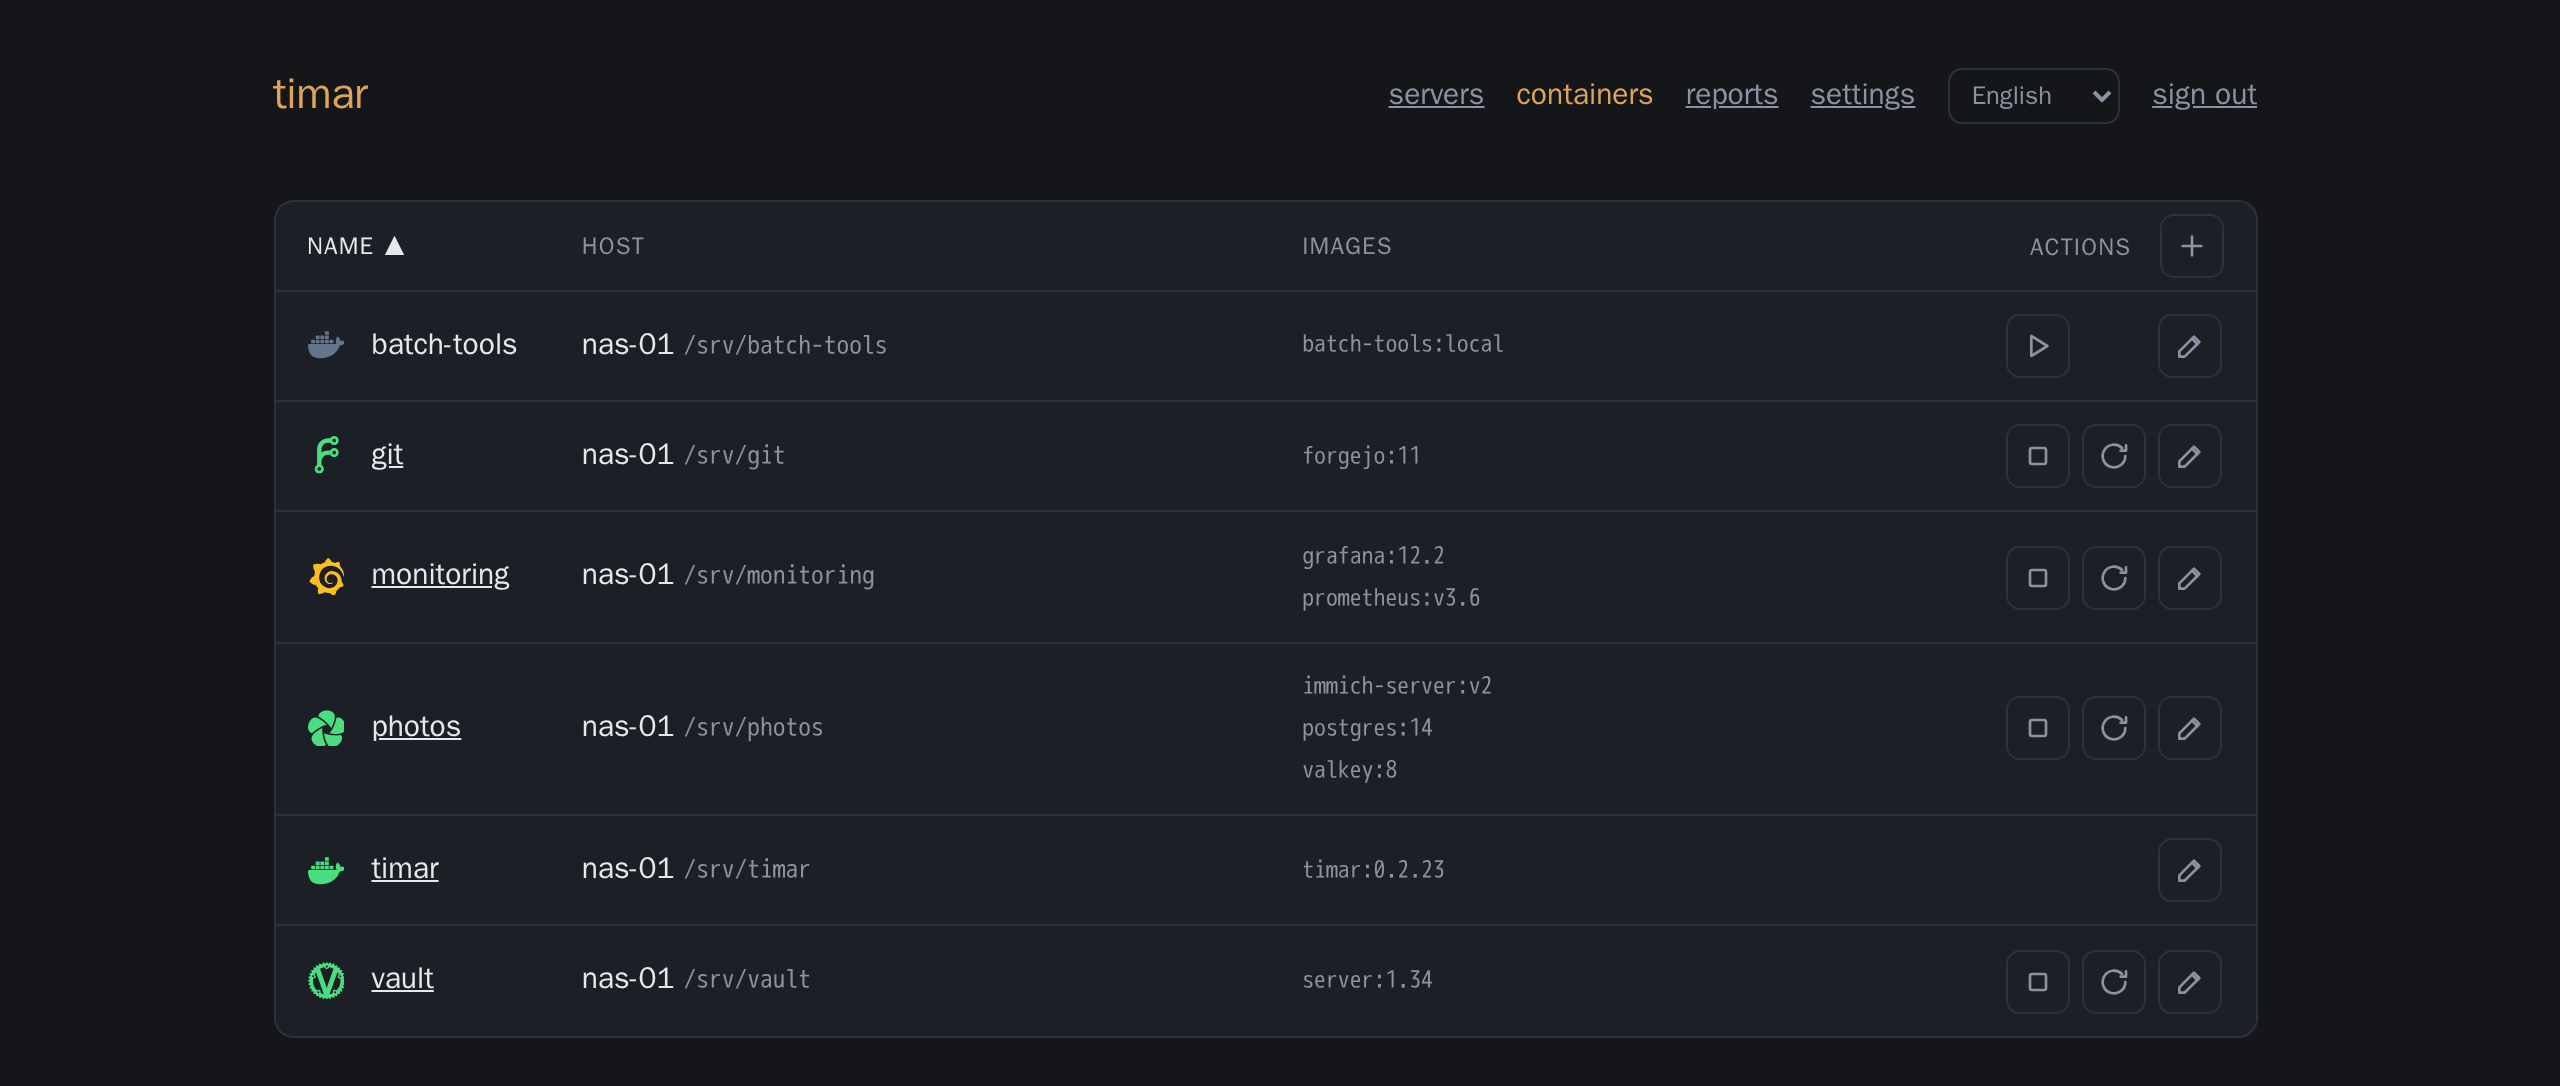
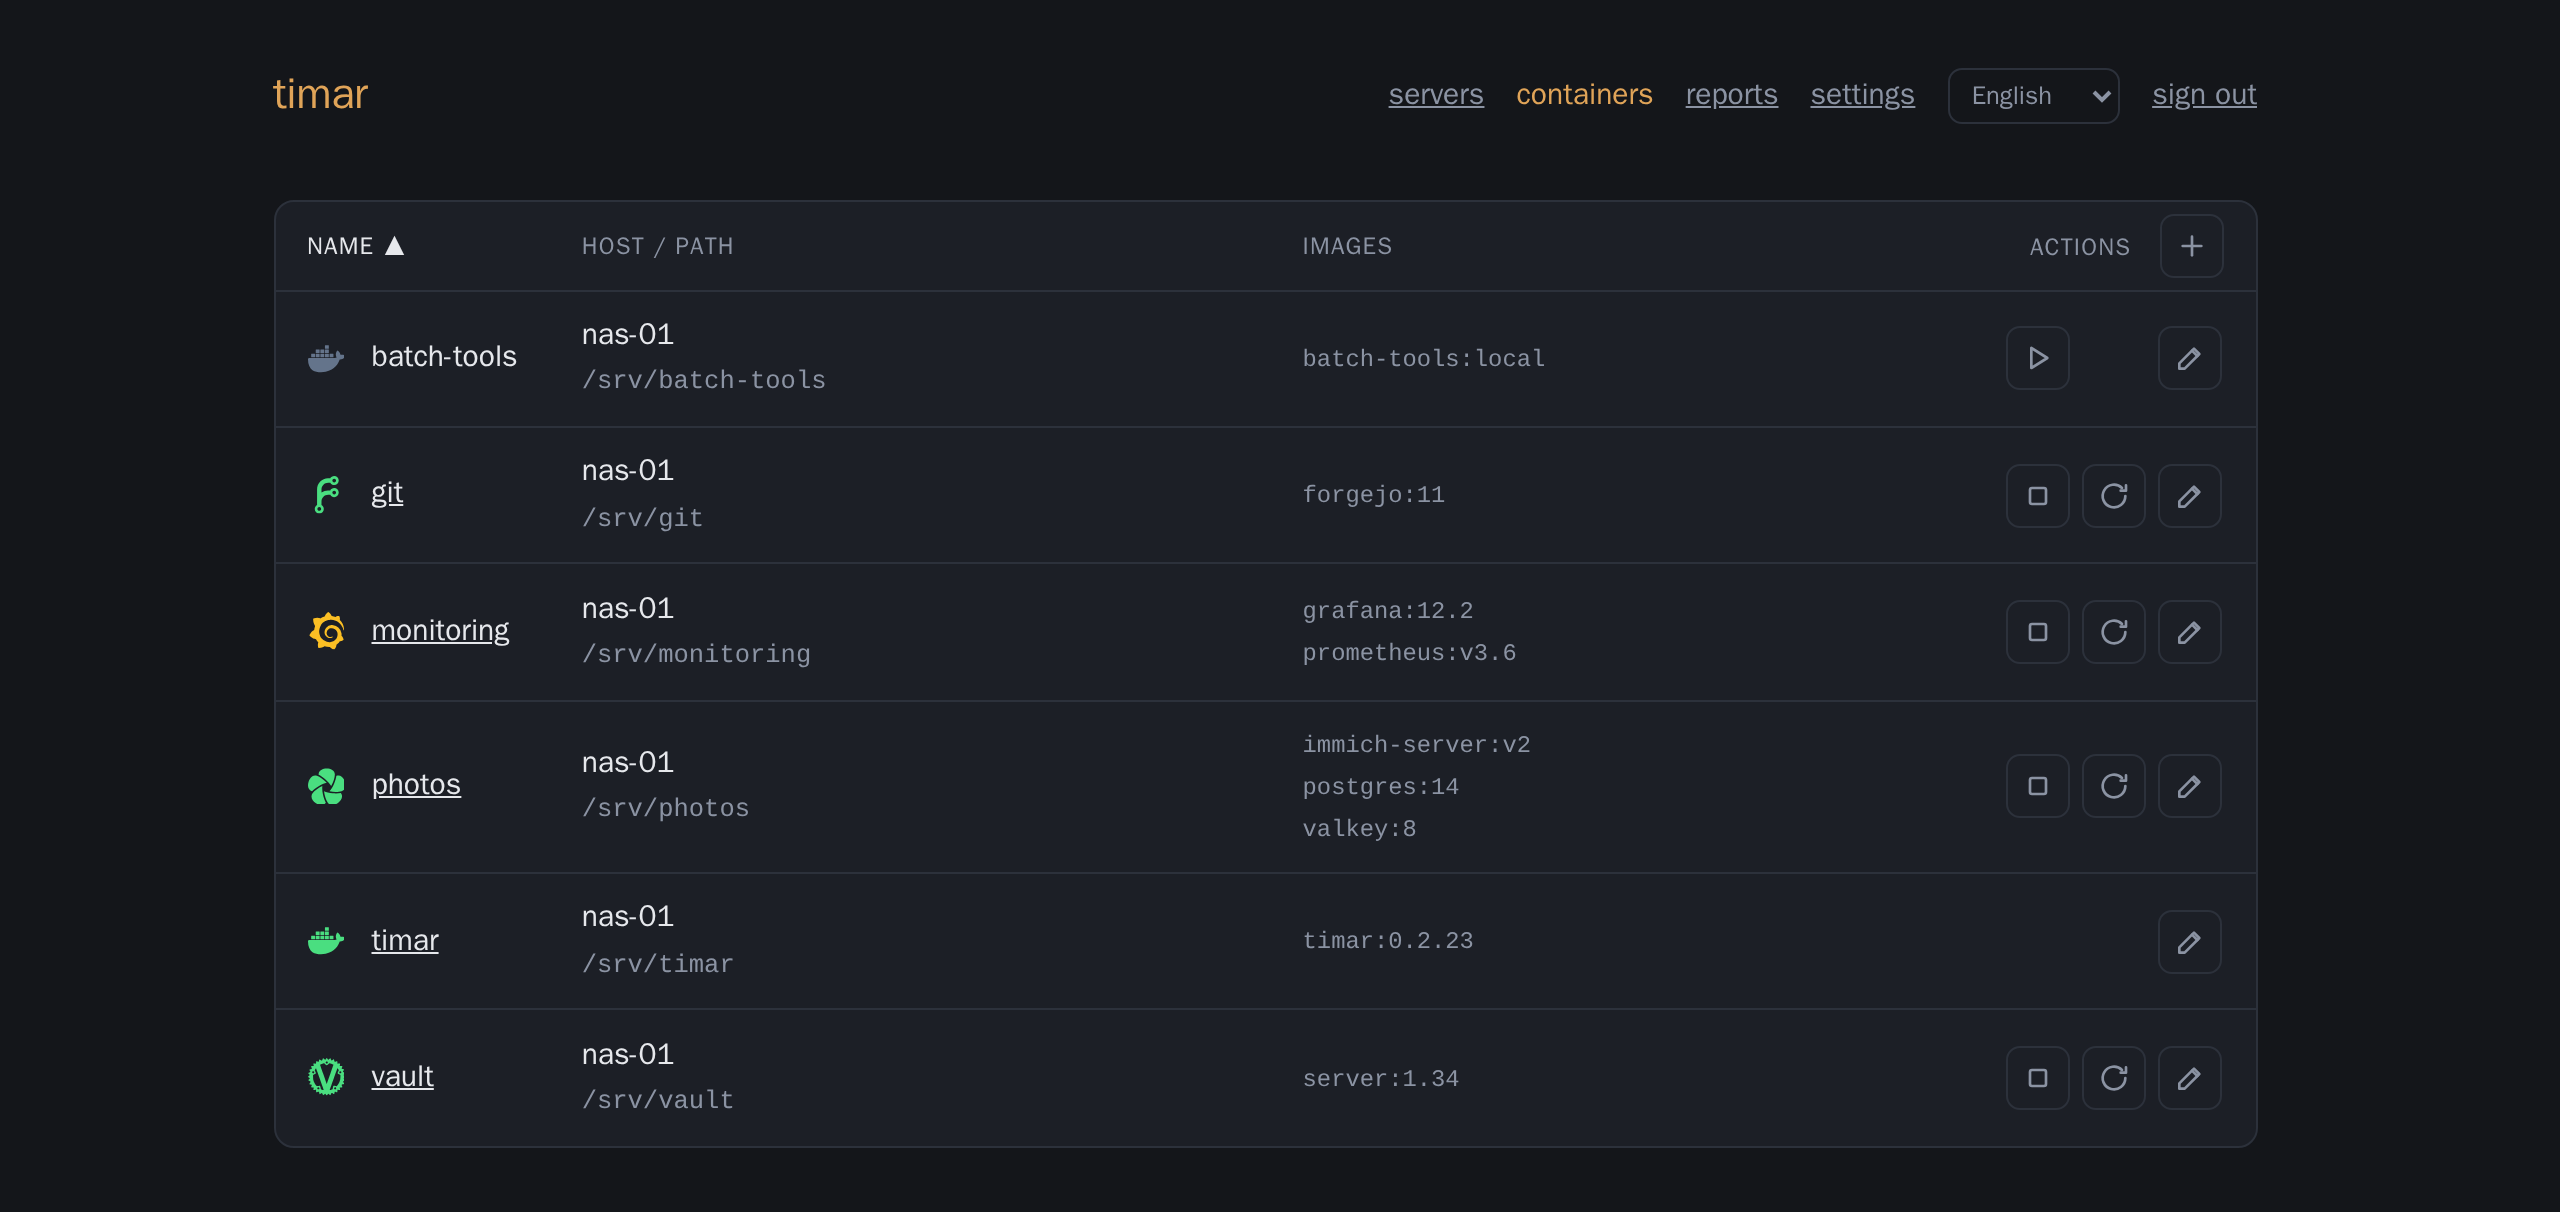
style: containers table puts the host and its path on two lines (#85)
The host column read `docker-prod-01 /home/orkun/docker/brain` on one line. Now the host is on
the first line and the compose directory under it, under a *Host / Path* heading. The heading is
translated in all six catalogs. On a narrow screen the path is still dropped (`.wide`), as before.

Measured in headless Chromium: the path starts 23.5 px below the host, at the same left edge.
At 390 px the path is hidden and there is no horizontal scroll. The containers screenshots were
re-captured (now 2560x1212) and the site's image height updated to match.

diff --git a/timar/web/templates/_containers.html b/timar/web/templates/_containers.html
@@ -7,7 +7,7 @@
 <div class="table-scroll">
 <table>
   <thead>
-    <tr>{{ sortable("/containers", sort, descending, "name", _("Name"), "col-edge") }}{{ sortable("/containers", sort, descending, "host", _("Host"), "col-mid") }}
+    <tr>{{ sortable("/containers", sort, descending, "name", _("Name"), "col-edge") }}{{ sortable("/containers", sort, descending, "host", _("Host / Path"), "col-mid") }}
       <th class="col-mid wide">{{ _("Images") }}</th>
       <th class="col-edge actions-head"><span>{{ _("Actions") }}</span>
         <a href="/settings/containers/new" class="icon-btn" title="{{ _("Add a container") }}"
@@ -28,7 +28,9 @@
         {% if p.web_url and p.running -%}
         <a href="{{ p.web_url }}" target="_blank" rel="noopener noreferrer" title="{{ p.web_url }}">{{ p.name }}</a>
         {%- else %}{{ p.name }}{% endif %}</td>
-      <td class="col-mid">{{ p.server }} <code class="wide">{{ p.path }}</code></td>
+      {# The host on its line, the directory under it: side by side, a long path pushed the images
+         column off the row. The path is dropped on a narrow screen, as before. #}
+      <td class="col-mid">{{ p.server }}<div class="wide"><code>{{ p.path }}</code></div></td>
       <td class="col-mid wide muted">{% for shown, full in p.image_rows %}<div><code title="{{ full }}">{{ shown }}</code></div>{% else %}—{% endfor %}</td>
       <td class="col-edge"><div class="icon-row">
         {%- if p.is_self %}

diff --git a/docs/index.html b/docs/index.html
@@ -341,9 +341,9 @@
     </figure>
 
     <figure class="shot">
-      <img class="shot-dark" src="images/containers-dark.png" width="2560" height="1086"
+      <img class="shot-dark" src="images/containers-dark.png" width="2560" height="1212"
            alt="The containers page: six compose projects on nas-01 with their images, each with its application's logo before its name (Forgejo, Grafana, Immich, Vaultwarden, and Docker's whale for local builds), coloured by state. batch-tools is grey (stopped, on-demand) with a start button; monitoring is yellow because grafana fails its healthcheck; timar's own project has no stop or restart button; the rest are green with stop, restart and edit." />
-      <img class="shot-light" src="images/containers-light.png" width="2560" height="1086"
+      <img class="shot-light" src="images/containers-light.png" width="2560" height="1212"
            alt="The same page in a light theme." />
       <figcaption>
         Containers, one row per Compose project: state from one <code>docker ps</code> per host,

diff --git a/tests/test_containers.py b/tests/test_containers.py
@@ -254,6 +254,11 @@ class TestPage:
         rows = client.get("/fragments/containers").text
         assert '<code title="ghcr.io/immich-app/immich-server:v2">immich-server:v2</code>' in rows
 
+    def test_the_host_and_its_directory_are_on_two_lines(self, page):
+        rows = page.get("/fragments/containers").text
+        assert ">Host / Path<" in rows
+        assert 'docker-01<div class="wide"><code>/srv/immich</code></div>' in rows
+
     def test_the_page_carries_the_menu_and_requires_a_session(self, page):
         assert 'aria-current="page">containers<' in page.get("/containers").text
         page.cookies.clear()

diff --git a/CHANGELOG.md b/CHANGELOG.md
@@ -9,6 +9,11 @@ The format follows [Keep a Changelog](https://keepachangelog.com/en/1.1.0/). Ver
 
 ## [Unreleased]
 
+### Changed
+
+- **Containers: the host and its compose directory are on two lines,** under a *Host / Path*
+  heading. The host is on the first line and the path under it.
+
 ## [0.2.23] — 2026-10-02
 
 ### Added
